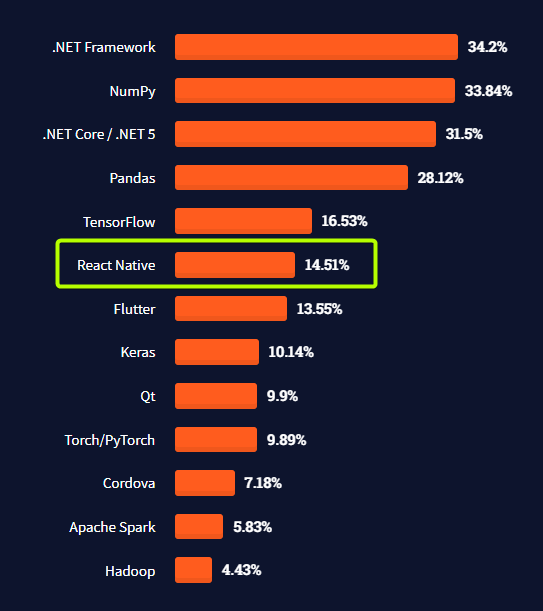
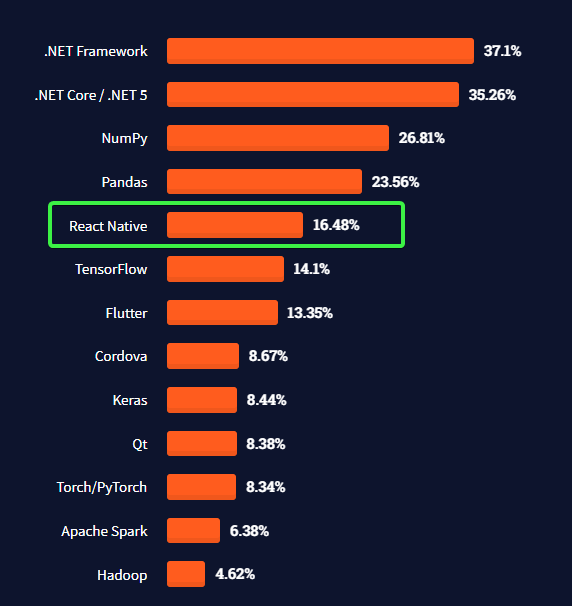
[+++][UPD][Compétence technique] MAJ React Native

Changed region(s): [[0.0589, 0.0297, 0.9429, 0.9802]]

diff --git a/content/posts/competences-techniques/react-native/index.md b/content/posts/competences-techniques/react-native/index.md
@@ -13,26 +13,32 @@ menu:
 ---
 
 ## Définition
-React Native est un framework open-source développé par Facebook pour la création d'applications mobiles multi-plateformes. Ce framework permet aux développeurs de créer des applications mobiles pour iOS et Android en utilisant le langage de programmation JavaScript. Il permet de développer des applications mobiles performantes et réactives tout en réduisant le temps de développement et en économisant des ressources.<div style="display: flex; flex-direction: column; align-items: center; justify-content: center; margin: 30px;">
-  <img onclick="window.open('/images/competences-techniques/react-native/survey.png')" src="/images/competences-techniques/react-native/survey.png" width="20%" style="align-self: center; cursor: pointer;" alt="Survey" title="Cliquer pour zoomer" />
-  <i>Survey</i>
+React Native est un framework open-source permettant de développer des applications mobiles multi-plateformes pour iOS et Android en utilisant la bibliothèque JavaScript React. Il permet de créer des interfaces utilisateur déclaratives, performantes et réactives, en utilisant des composants réutilisables qui se comportent comme des briques Lego pour construire des applications. Les applications développées avec React Native ont un aspect et des performances similaires à celles des applications natives, car elles sont compilées en code natif pour chaque plateforme cible. En utilisant React Native, les développeurs peuvent développer des applications pour plusieurs plateformes avec une base de code commune, ce qui peut réduire les coûts et le temps de développement.
+
+<div style="display: flex; flex-direction: column; align-items: center; justify-content: center; margin: 30px;">
+  <img onclick="window.open('https://insights.stackoverflow.com/survey/2021#most-popular-technologies-misc-tech-prof')" src="/images/competences-techniques/react-native/survey.png" width="30%" style="align-self: center; cursor: pointer;" alt="React Native est très populaire parmi les professionnels en 2021" title="Cliquer pour zoomer" />
+  <i>React Native est très populaire parmi les professionnels en 2021</i>
 </div>
 
 ## Mon expérience
-J'ai récemment eu l'opportunité de développer une application mobile multi-plateforme avec React Native pour faciliter le travail des conducteurs et conductrices de travaux en regroupant les parties prenantes sur une seule application. Cette application contient 3 interfaces utilisateurs pour chaque partie prenante : les artisans, les clients et les conducteurs de travaux.
+En tant que développeur, j'ai créé une application multi-plateforme avec React Native pour faciliter le travail des conducteurs et conductrices de travaux. Cette application regroupe les parties prenantes sur une seule plateforme, offrant ainsi une expérience utilisateur fluide et simplifiée pour les artisans, les clients et les conducteurs de travaux.
 
-Le développement de cette application m'a permis de découvrir les avantages de React Native. En utilisant le langage de programmation JavaScript, j'ai pu développer une application multi-plateforme pour iOS et Android avec un code unique. Cela m'a permis de réduire considérablement le temps de développement et de limiter les ressources nécessaires pour la création de l'application. J'ai également apprécié la richesse de la communauté React Native, qui m'a permis de trouver rapidement des solutions à mes problèmes et de mener à bien mon projet.
+L'application met à disposition des interfaces utilisateurs spécifiques pour chaque partie prenante, ainsi qu'une interface de connexion commune. Les clients peuvent accéder à un tableau de bord, une interface de gestion des documents, une interface de planning et de communication avec le conducteur de travaux. Les artisans ont un ensemble similaire d'interfaces, mais accèdent uniquement aux projets qui leur sont assignés. L'administrateur dispose d'interfaces dédiées pour la gestion des données de l'application.
+
+L'application a été créée pour répondre à un besoin identifié par une connaissance travaillant comme conductrice de travaux. J'ai appris React Native en autodidacte pour développer une application multi-plateforme performante et réactive, avec des interfaces utilisateurs déclaratives et réutilisables. Grâce à ce framework open-source, l'application offre des performances et un aspect similaires à ceux des applications natives, ce qui garantit une expérience utilisateur de qualité pour tous les utilisateurs de l'application.
 
 <div style="display: flex; flex-direction: column; align-items: center; justify-content: center; margin: 30px;">
-  <img onclick="window.open('/images/competences-techniques/react-native/interface-documents.png')" src="/images/competences-techniques/react-native/interface-documents.png" width="20%" style="align-self: center; cursor: pointer;" alt="Capture d'écran de l'application" title="Cliquer pour zoomer" />
-  <i>Capture d'écran de l'application</i>
+  <img onclick="window.open('/images/competences-techniques/react-native/interface-documents.png')" src="/images/competences-techniques/react-native/interface-documents.png" width="20%" style="align-self: center; cursor: pointer;" alt="Application mobile en React Native" title="Cliquer pour zoomer" />
+  <i>Application mobile en React Native</i>
 </div>
 
 ## Retour d'expérience
-Cette expérience m'a permis de développer de nouvelles compétences en matière de développement d'applications mobiles multi-plateformes avec React Native. J'ai appris à utiliser les outils et les composants de React Native, ainsi que les meilleures pratiques de développement pour assurer la qualité et la performance de l'application.
+Suite au développement de mon application multi-plateforme avec React Native, j'ai acquis une expérience précieuse dans le domaine de la création d'applications mobiles. Cette expérience m'a permis de mieux comprendre les enjeux et les défis associés au développement d'une application à destination de plusieurs plateformes.
 
-J'ai également appris l'importance de la compréhension des besoins des utilisateurs pour la conception de l'application. En travaillant avec une conductrice de travaux, j'ai compris l'importance de regrouper les parties prenantes d'un projet de construction sur une seule application pour faciliter la communication et la gestion des projets.
+La découverte de React Native a été un tournant dans ma carrière de développeur autodidacte. J'ai appris à créer des interfaces utilisateurs performantes, réactives et déclaratives en utilisant des composants réutilisables. J'ai également compris l'importance de développer une base de code commune pour plusieurs plateformes, afin de réduire les coûts et le temps de développement.
 
-Enfin, cette expérience m'a permis de développer une meilleure compréhension des avantages et des limites de React Native. Bien que React Native soit une technologie puissante pour le développement d'applications mobiles multi-plateformes, il peut y avoir des limites en termes de performance et de compatibilité avec certains appareils. Il est donc important de comprendre les avantages et les limites de cette technologie pour choisir la meilleure solution pour un projet donné.
+Cependant, le développement de cette application multi-plateforme n'a pas été sans difficultés. J'ai dû faire face à des défis techniques, notamment liés à la compatibilité entre les différentes plateformes. J'ai également dû apprendre à gérer la complexité de l'interface utilisateur et à résoudre les bugs qui pouvaient survenir. Ces difficultés m'ont permis de renforcer mes compétences techniques et de développer une approche méthodique pour résoudre les problèmes.
 
-En conclusion, mon expérience avec React Native a été très enrichissante et m'a permis de développer de nouvelles compétences en matière de développement d'applications mobiles multi-plateformes. Cette expérience m'a également permis de comprendre l'importance de la compréhension des besoins des utilisateurs et de la gestion de projet pour le développement d'applications performantes et efficaces.
+## Réalisations
+
+- [OLAU]({{< ref "posts/realisations/olau" >}} "OLAU") : réalisation d'une application multi-plateforme avec React Native
